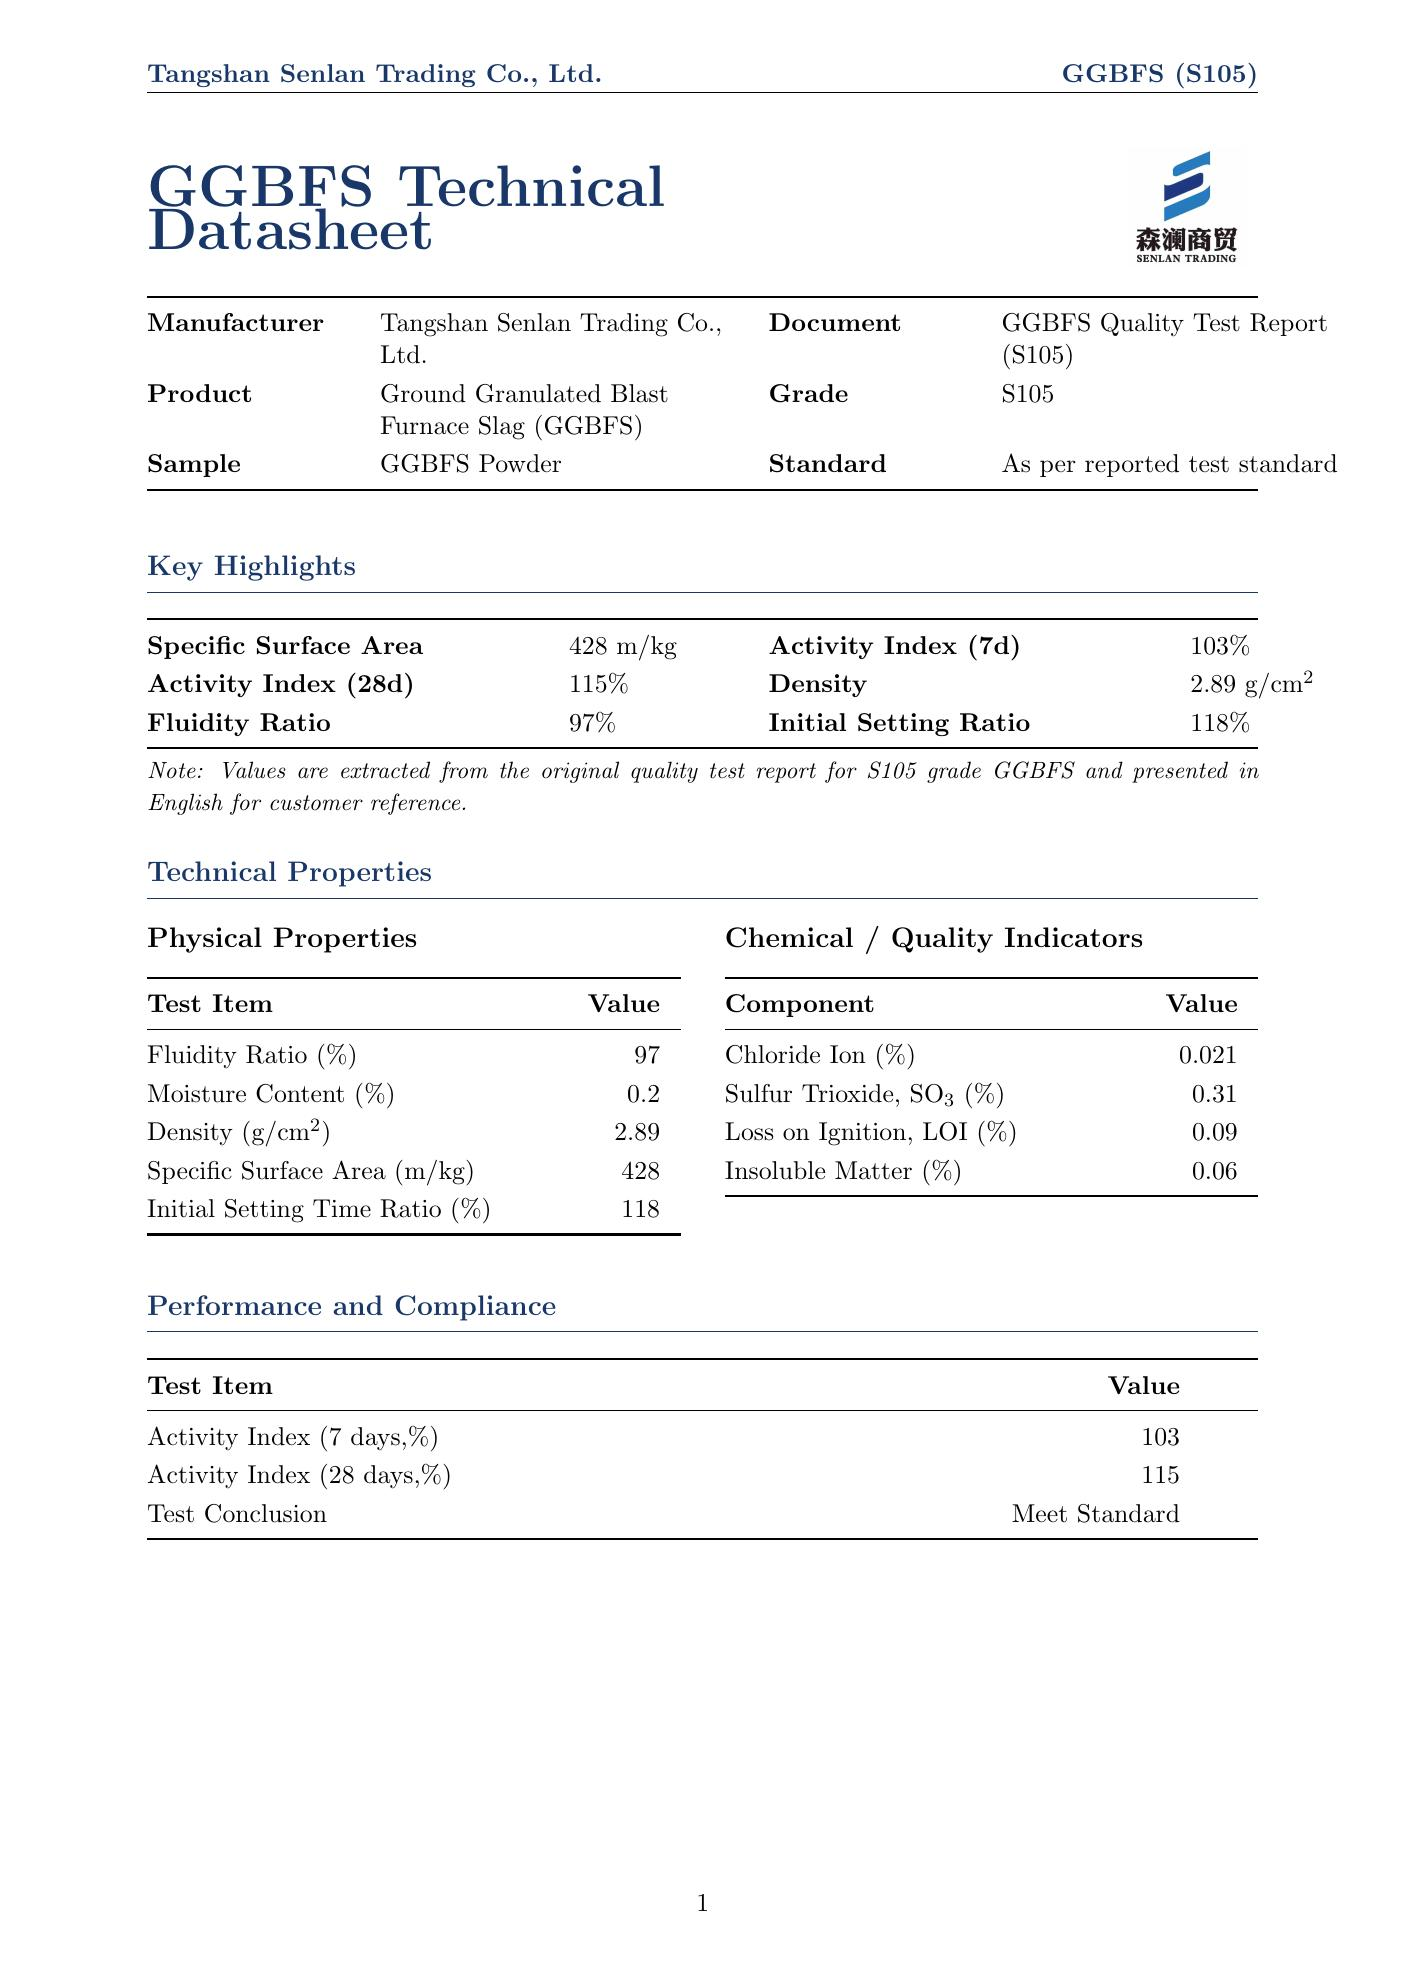
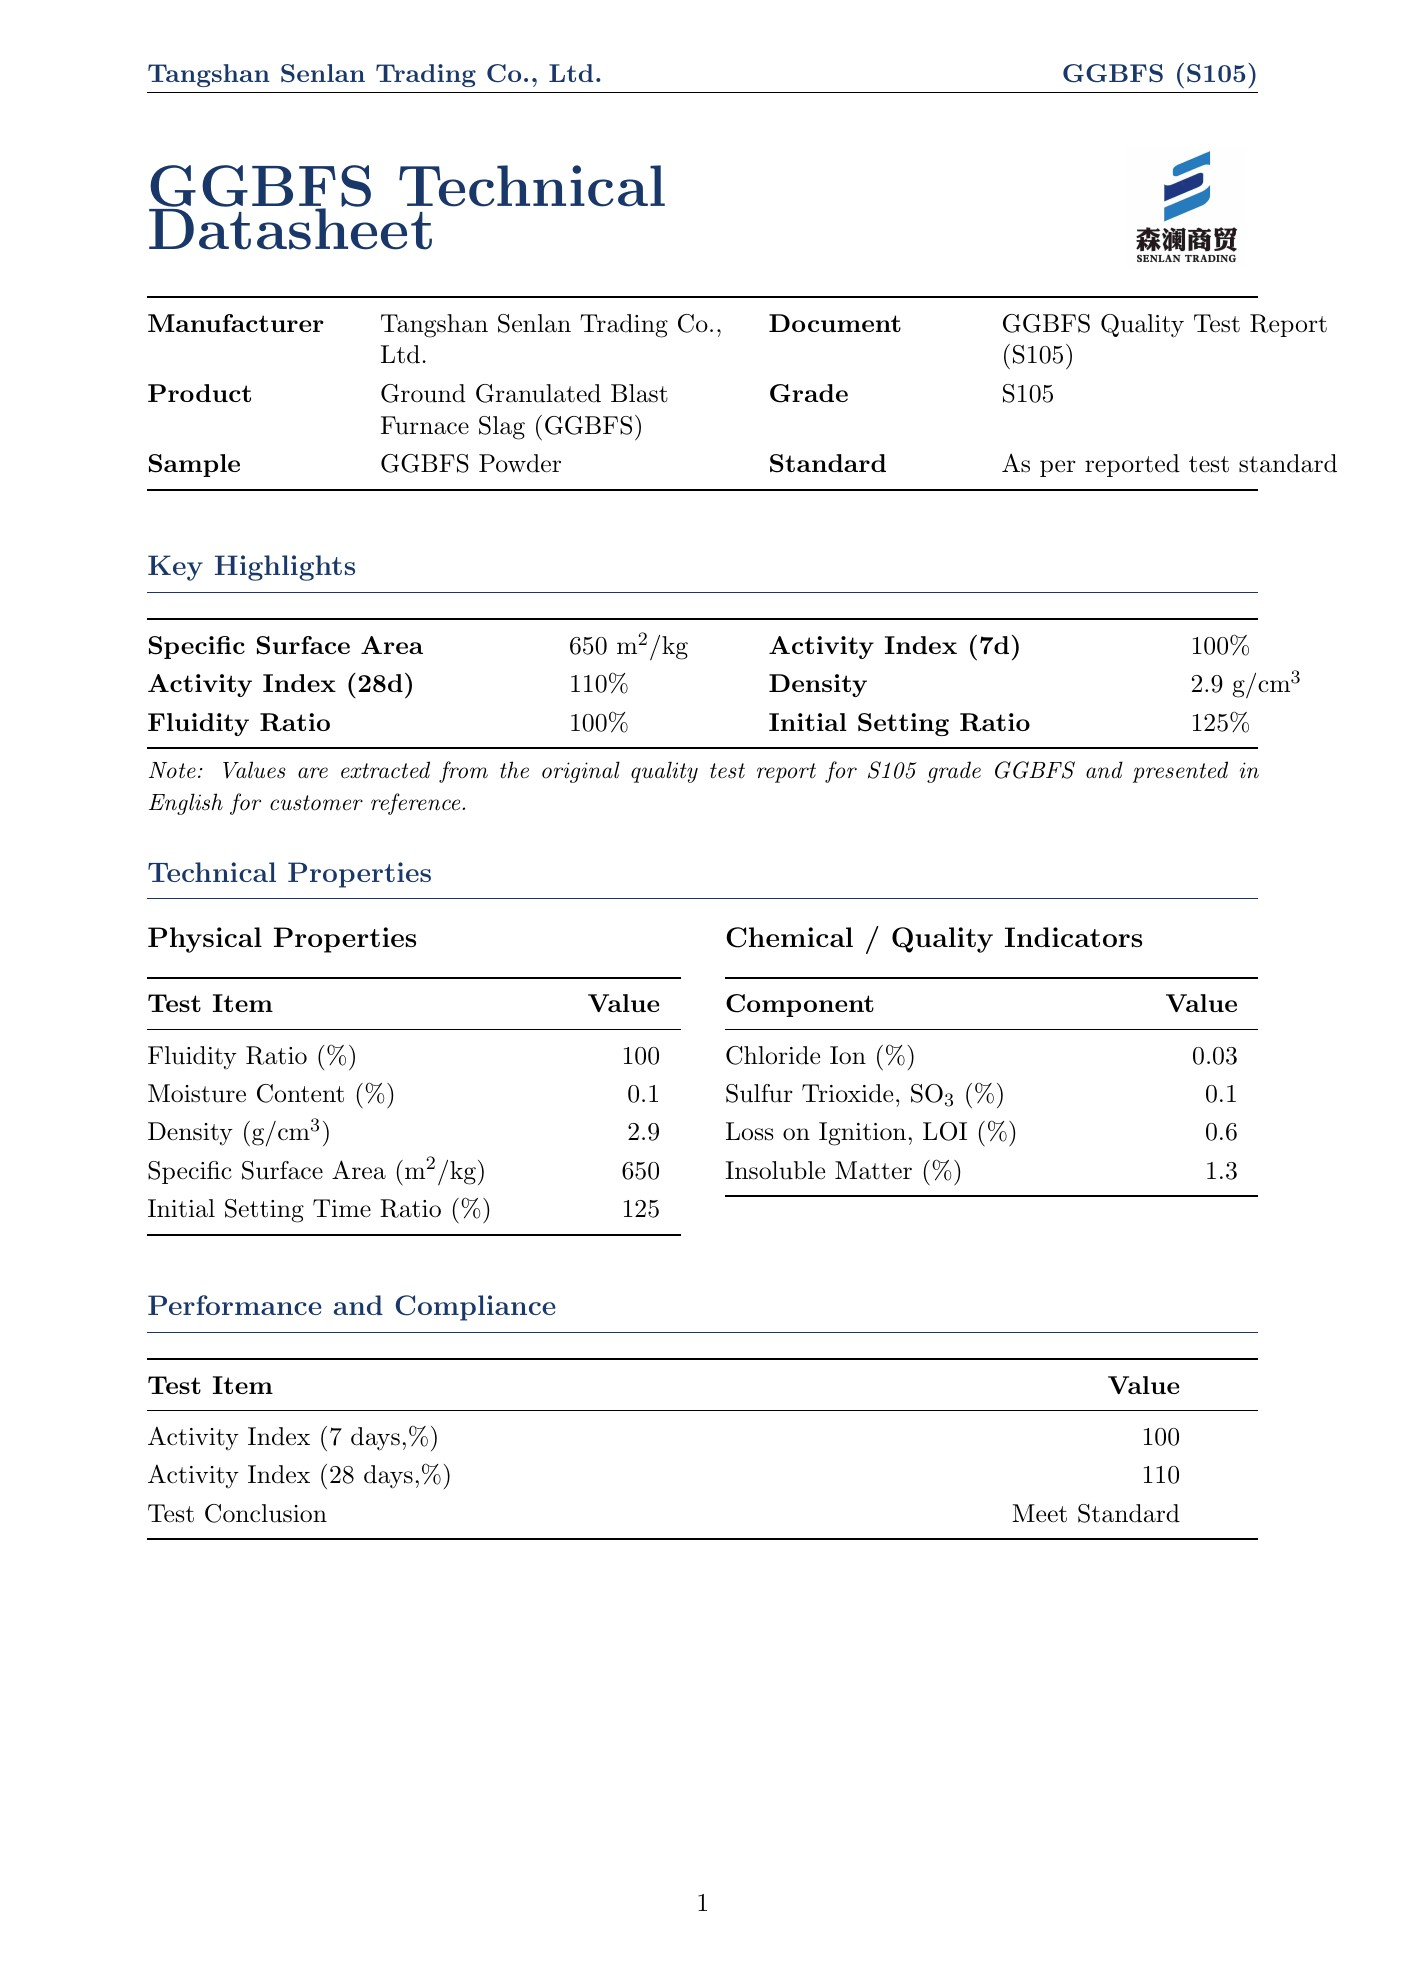
content: replace GGBFS S105 report and page previews

diff --git a/ggbfs.html b/ggbfs.html
@@ -221,15 +221,15 @@
 
         </h2>
         <div class="tds-actions">
-          <a class="tds-action" data-static-product="ggbfs" data-static-lang="en" href="tds/ggbfs.pdf" target="_blank" rel="noopener" lang="en">Open latest GGBFS PDF</a>
-          <a class="tds-action" data-static-product="ggbfs" data-static-lang="zh" href="tds/ggbfs.pdf" target="_blank" rel="noopener" lang="zh-CN" style="display:none">打开最新 GGBFS PDF</a>
+          <a class="tds-action" data-static-product="ggbfs" data-static-lang="en" href="tds/ggbfs.pdf?v=20261117" target="_blank" rel="noopener" lang="en">Open GGBFS S105 report (PDF)</a>
+          <a class="tds-action" data-static-product="ggbfs" data-static-lang="zh" href="tds/ggbfs.pdf?v=20261117" target="_blank" rel="noopener" lang="zh-CN" style="display:none">打开 GGBFS S105 报告（PDF）</a>
 
         </div>
         <div class="pdf-pages" id="p-pdf" aria-label="TDS pages">
-          <div class="pdf-page" data-static-product="ggbfs" data-static-lang="en" lang="en"><img src="img/tds/ggbfs-tds-new-1.jpg" alt="GGBFS TDS page 1" loading="lazy" width="1406" height="1988" decoding="async"></div>
-          <div class="pdf-page" data-static-product="ggbfs" data-static-lang="en" lang="en"><img src="img/tds/ggbfs-tds-new-2.jpg" alt="GGBFS TDS page 2" loading="lazy" width="1406" height="1988" decoding="async"></div>
-          <div class="pdf-page" data-static-product="ggbfs" data-static-lang="zh" lang="zh-CN" style="display:none"><img src="img/tds/ggbfs-tds-new-1.jpg" alt="GGBFS 技术数据表第 1 页" loading="lazy" width="1406" height="1988" decoding="async"></div>
-          <div class="pdf-page" data-static-product="ggbfs" data-static-lang="zh" lang="zh-CN" style="display:none"><img src="img/tds/ggbfs-tds-new-2.jpg" alt="GGBFS 技术数据表第 2 页" loading="lazy" width="1406" height="1988" decoding="async"></div>
+          <div class="pdf-page" data-static-product="ggbfs" data-static-lang="en" lang="en"><img src="img/tds/ggbfs-tds-new-1.jpg?v=20261117" alt="GGBFS S105 report page 1" loading="lazy" width="1406" height="1988" decoding="async"></div>
+          <div class="pdf-page" data-static-product="ggbfs" data-static-lang="en" lang="en"><img src="img/tds/ggbfs-tds-new-2.jpg?v=20261117" alt="GGBFS S105 report page 2" loading="lazy" width="1406" height="1988" decoding="async"></div>
+          <div class="pdf-page" data-static-product="ggbfs" data-static-lang="zh" lang="zh-CN" style="display:none"><img src="img/tds/ggbfs-tds-new-1.jpg?v=20261117" alt="GGBFS S105 报告第 1 页" loading="lazy" width="1406" height="1988" decoding="async"></div>
+          <div class="pdf-page" data-static-product="ggbfs" data-static-lang="zh" lang="zh-CN" style="display:none"><img src="img/tds/ggbfs-tds-new-2.jpg?v=20261117" alt="GGBFS S105 报告第 2 页" loading="lazy" width="1406" height="1988" decoding="async"></div>
 
         </div>
         <p class="p footnote">
@@ -249,7 +249,7 @@
 
 <tr><th scope="row">Activity index (7 days)</th><td>85–105%</td></tr>
 <tr><th scope="row">Activity index (28 days)</th><td>100–128%</td></tr></tbody></table>
-<p class="p"><a href="tds/ggbfs.pdf">Review the GGBFS sample technical datasheet (PDF)</a>. Request confirmation of the current batch and test basis before purchase.</p>
+<p class="p"><a href="tds/ggbfs.pdf?v=20261117">Review the GGBFS S105 sample report (PDF)</a>. Request confirmation of the current batch and test basis before purchase.</p>
 <h2 class="h2">Purchasing questions</h2>
 <details><summary>Which GGBFS data should a buyer review?</summary><p class="p">The existing page lists grades S95 / S105 / S115, surface area ranges and 7-day and 28-day activity index ranges. Confirm the applicable test method, project requirements and batch acceptance limits before ordering.</p></details>
 <details><summary>What information is needed for a quotation?</summary><p class="p">Provide your required specification, quantity, destination country and port, loading method and laycan. Use the <a href="contact.html?product=ggbfs">product inquiry form</a> to share these requirements.</p></details>
@@ -284,7 +284,7 @@
   </footer>
 
   <script src="js/nav-mega-841001.js"></script>
-  <script src="product-page.js?v=20261116" type="module"></script>
+  <script src="product-page.js?v=20261117" type="module"></script>
   <a class="floating-whatsapp" href="https://wa.me/8613733333067?text=Hello%2C%20I%20would%20like%20a%20quote%20for%20GGBFS." target="_blank" rel="noopener" aria-label="WhatsApp live chat">
     <span class="floating-whatsapp__icon" aria-hidden="true">
       <svg viewBox="0 0 90 90" xmlns="http://www.w3.org/2000/svg">

diff --git a/product-page.js b/product-page.js
@@ -138,8 +138,8 @@ const DATA = {
     },
     // pages generated from the latest PDF ("(1)" version)
     tdsPages: [
-      'img/tds/ggbfs-tds-1_compressed.webp',
-      'img/tds/ggbfs-tds-2_compressed.webp'
+      'img/tds/ggbfs-tds-new-1.jpg?v=20261117',
+      'img/tds/ggbfs-tds-new-2.jpg?v=20261117'
     ],
     highlights: [
       { k: 'grade', v: 'S95 / S105 / S115' },
